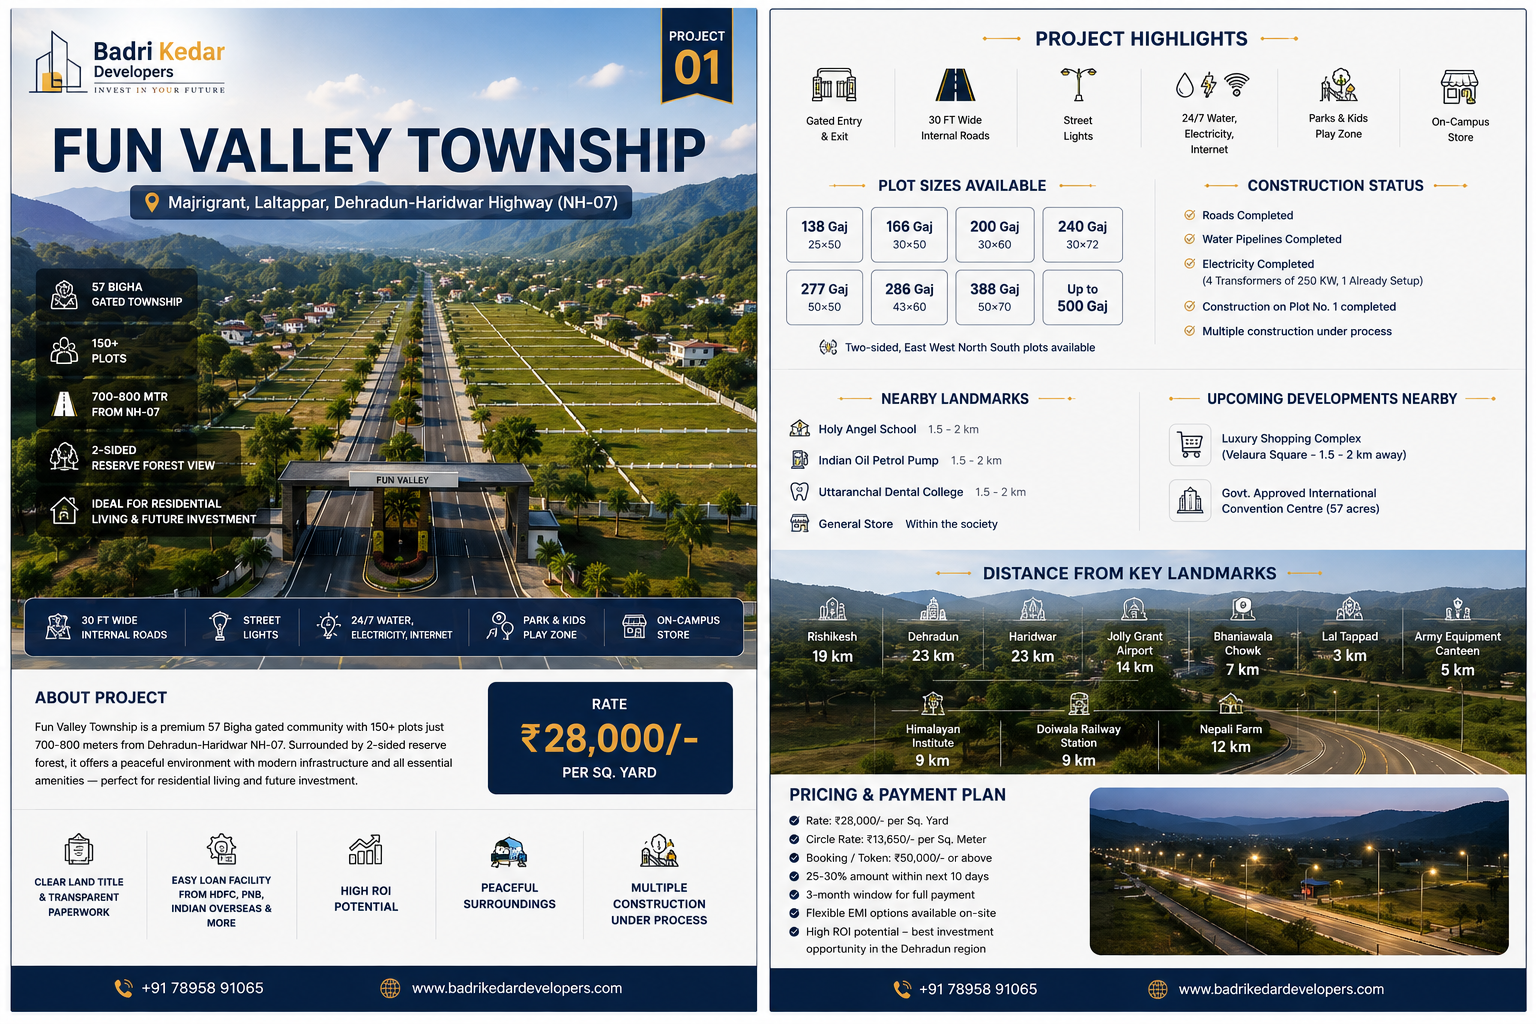
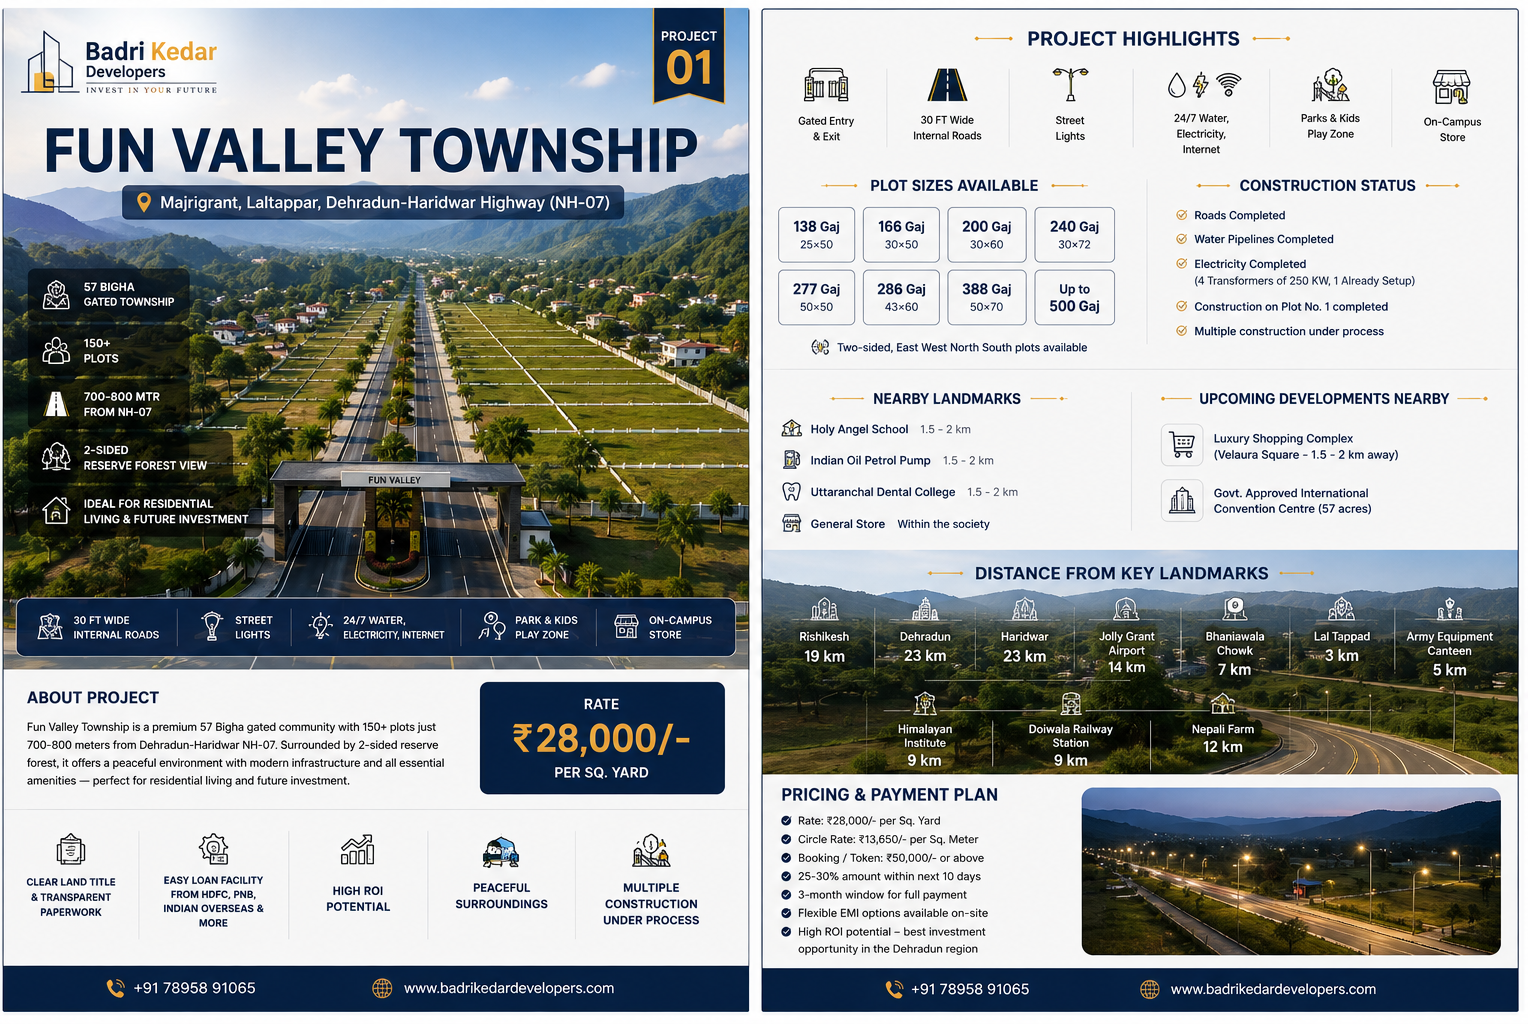
feat: add project listing page and individual detail view with dynamic project image rendering

diff --git a/app/projects/[id]/page.tsx b/app/projects/[id]/page.tsx
@@ -43,15 +43,43 @@ export default function ProjectDetail({ params }: { params: { id: string } }) {
           <ArrowLeft size={20} /> Back to Projects
         </Link>
         
-        <div className="bg-white rounded-2xl p-4 shadow-xl border border-gray-100">
+        <div className="bg-white rounded-2xl p-4 md:p-8 shadow-xl border border-gray-100 mb-12">
           <Image 
             src={projectImage}
             alt={`Project ${projectId}`}
             width={1200}
             height={1600}
-            className="w-full h-auto rounded-xl"
+            className="w-full h-auto rounded-xl mb-8"
             priority
           />
+          <div className="px-2">
+            <h1 className="text-3xl md:text-4xl font-serif font-bold text-gray-900 mb-4">
+              {projectId === 1 ? "Fun Valley Township" : 
+               projectId === 2 ? "480 sq yard" : 
+               projectId === 3 ? "530 sq yard" : "181 sq yard"}
+            </h1>
+            <p className="text-gray-600 leading-relaxed mb-6">
+              Welcome to this premium property offering unparalleled luxury, comfort, and state-of-the-art amenities. Designed with meticulous attention to detail, this space perfectly balances modern aesthetics with functional living. Surrounded by lush greenery and offering excellent connectivity, it presents an exceptional opportunity for both homeowners and investors seeking lasting value in Dehradun.
+            </p>
+            <div className="grid grid-cols-2 md:grid-cols-4 gap-6 py-6 border-y border-gray-100">
+              <div>
+                <p className="text-sm text-gray-500 mb-1">Status</p>
+                <p className="font-semibold text-gray-900">Ready to Move</p>
+              </div>
+              <div>
+                <p className="text-sm text-gray-500 mb-1">Property Type</p>
+                <p className="font-semibold text-gray-900">Residential</p>
+              </div>
+              <div>
+                <p className="text-sm text-gray-500 mb-1">Location</p>
+                <p className="font-semibold text-gray-900">Dehradun, UK</p>
+              </div>
+              <div>
+                <p className="text-sm text-gray-500 mb-1">Contact</p>
+                <p className="font-semibold text-brand-gold">Get in touch</p>
+              </div>
+            </div>
+          </div>
         </div>
       </section>
 

diff --git a/app/projects/page.tsx b/app/projects/page.tsx
@@ -11,23 +11,23 @@ import { FaFacebookF, FaInstagram, FaYoutube, FaWhatsapp } from "react-icons/fa"
 export default function Projects() {
   const projects = [
     {
-      title: "Godrej Properties", location: "Dehradun, Uttarakhand",
+      title: "Fun Valley Township", location: "Dehradun, Uttarakhand",
       type: "Residential", status: "Ongoing",
       img: "/Proj1.png"
     },
     {
-      title: "Green Valley Homes", location: "Dehradun, Uttarakhand",
-      type: "Residential", status: "Completed",
+      title: "480 sq yard", location: "Dehradun, Uttarakhand",
+      type: "Residential", status: "Ongoing",
       img: "/Proj2.png"
     },
     {
-      title: "Kedar Heights", location: "Dehradun, Uttarakhand",
-      type: "Commercial", status: "Ongoing",
+      title: "530 sq yard", location: "Dehradun, Uttarakhand",
+      type: "Residential", status: "Ongoing",
       img: "/Proj3.png"
     },
     {
-      title: "Sunrise Residency", location: "Dehradun, Uttarakhand",
-      type: "Residential", status: "Completed",
+      title: "181 sq yard", location: "Dehradun, Uttarakhand",
+      type: "Residential", status: "Ongoing",
       img: "/Proj4.png"
     }
   ];

diff --git a/crop_images.py b/crop_images.py
@@ -1,0 +1,40 @@
+from PIL import Image
+import os
+
+def crop_left_white_strip(image_path):
+    if not os.path.exists(image_path):
+        print(f"File not found: {image_path}")
+        return
+        
+    img = Image.open(image_path).convert("RGB")
+    width, height = img.size
+    
+    # We scan columns from the left
+    # Let's consider a pixel "white" if RGB > 240
+    crop_x = 0
+    for x in range(width):
+        white_pixels = 0
+        for y in range(height):
+            r, g, b = img.getpixel((x, y))
+            if r > 240 and g > 240 and b > 240:
+                white_pixels += 1
+        
+        # If this column has less than 90% white pixels, it's the start of the image content
+        if white_pixels < height * 0.90:
+            crop_x = x
+            break
+            
+    if crop_x > 0:
+        # Give a 2-pixel buffer so we don't clip the image itself, if possible
+        crop_start = max(0, crop_x - 2)
+        cropped_img = img.crop((crop_start, 0, width, height))
+        cropped_img.save(image_path)
+        print(f"Cropped {crop_start} pixels from the left of {image_path}")
+    else:
+        print(f"No white strip found on the left of {image_path}")
+
+for i in range(1, 5):
+    try:
+        crop_left_white_strip(f"public/Proj{i}.png")
+    except Exception as e:
+        print(f"Error processing Proj{i}.png: {e}")
